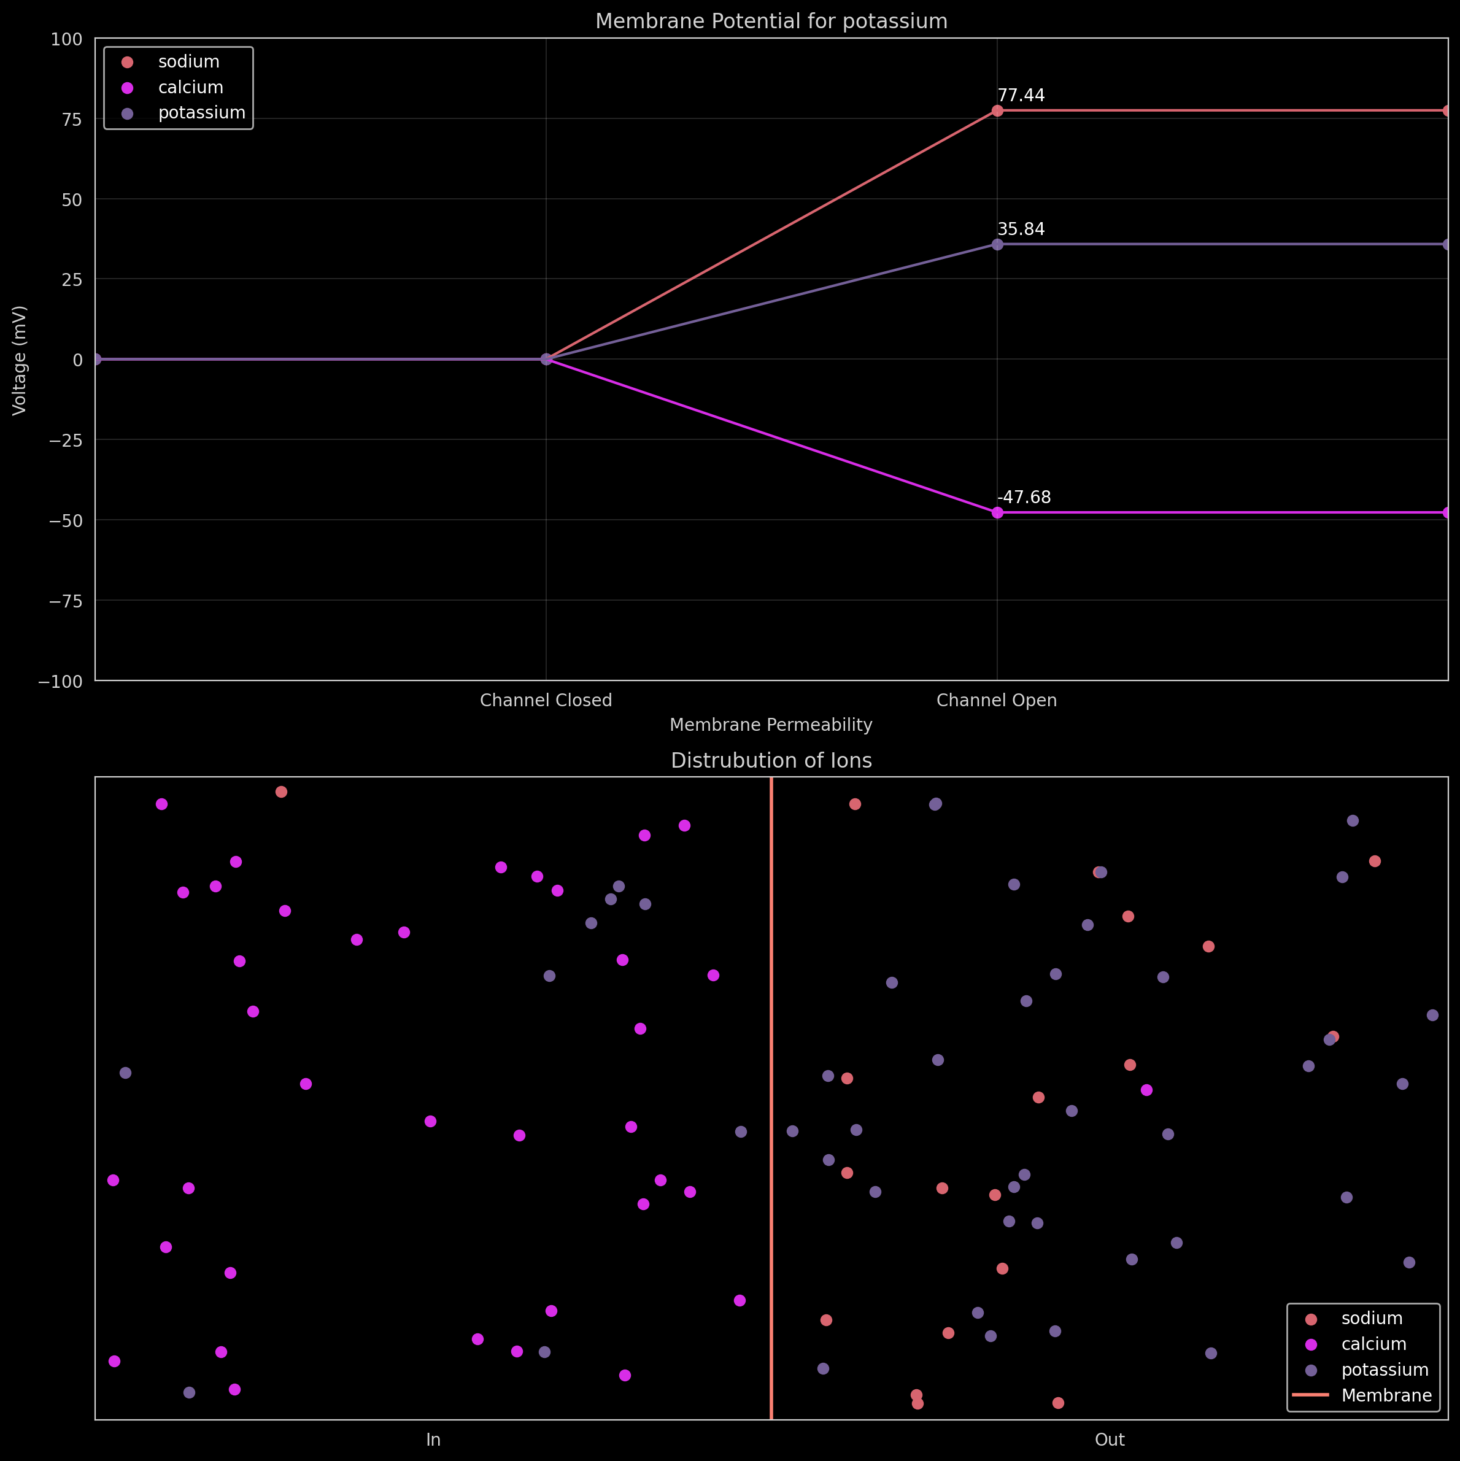
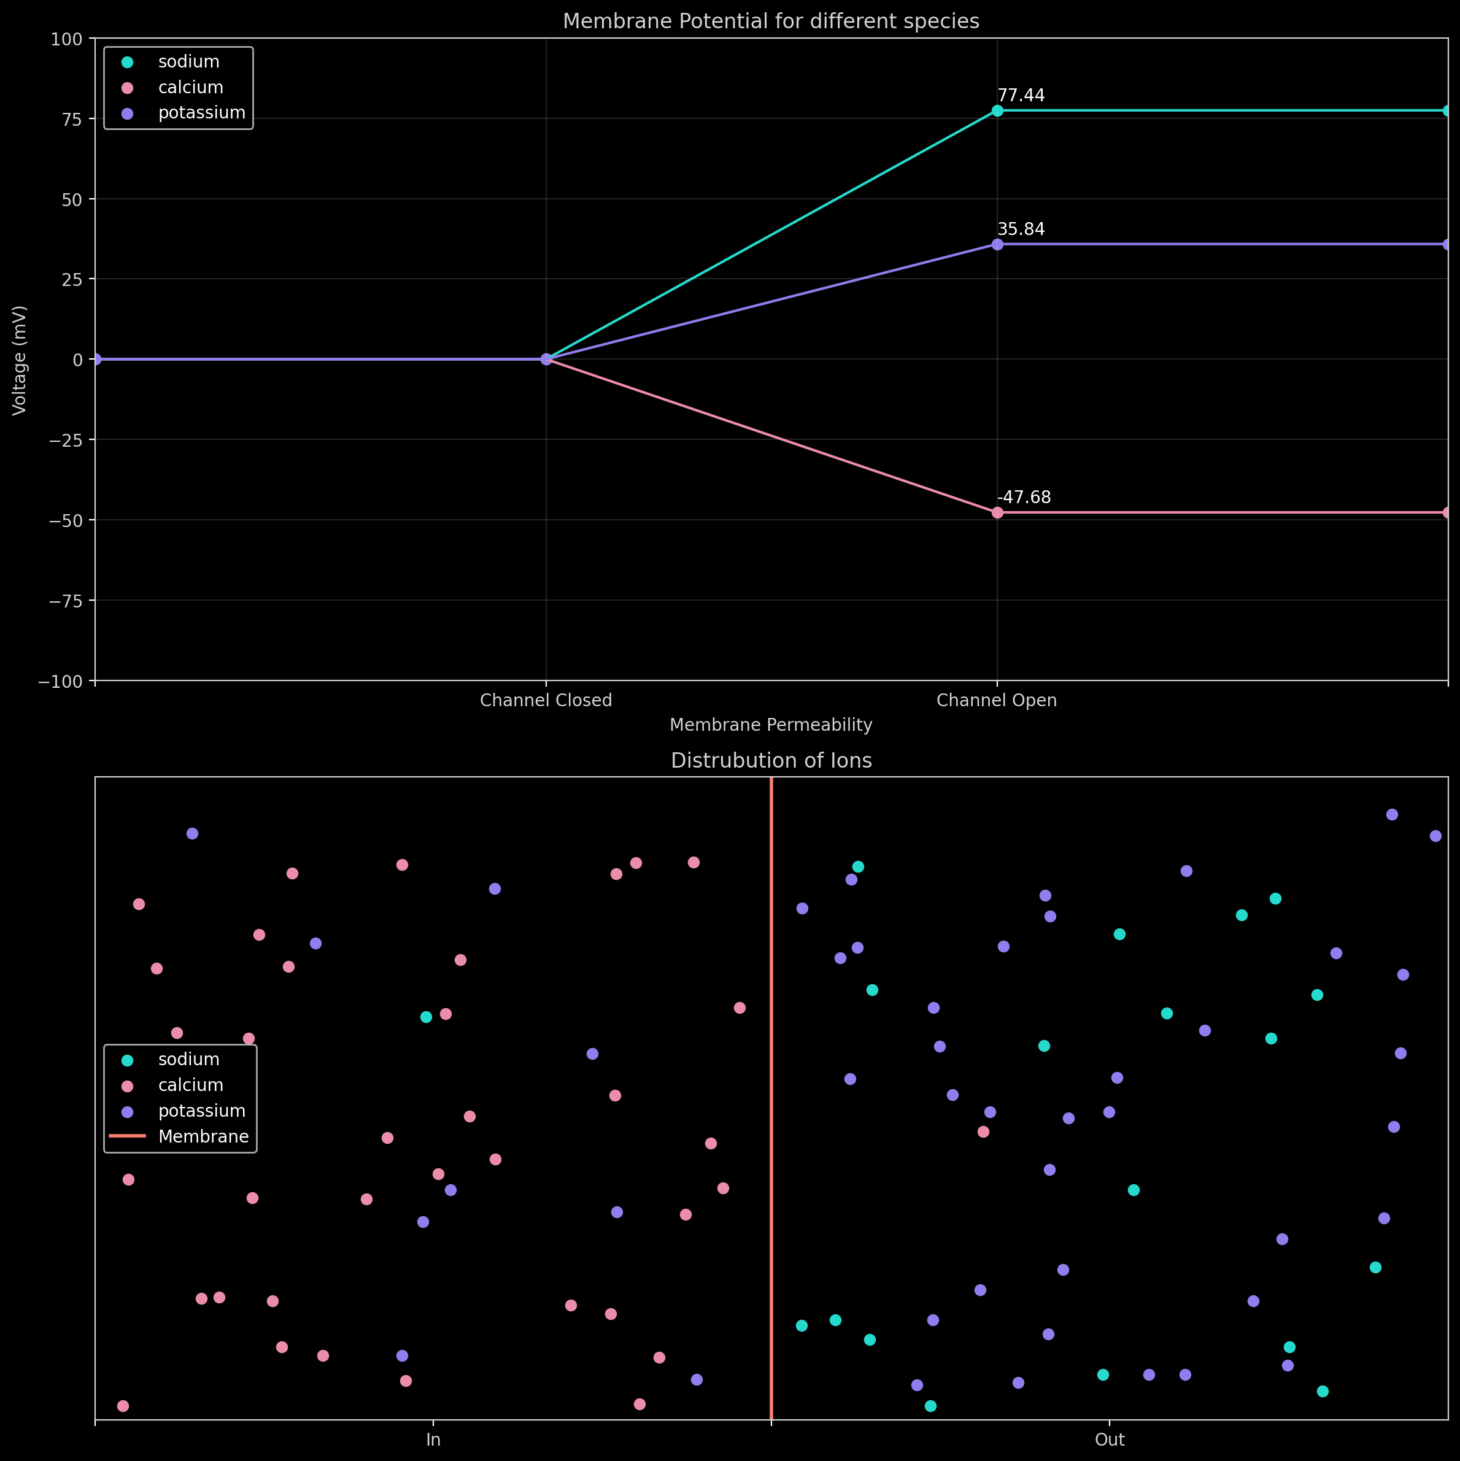
Added a Setup Guide

diff --git a/nernst_app.py b/nernst_app.py
@@ -63,7 +63,6 @@ class Nernst():
         plt.xticks(xlabs,x_tick_names,color='lightgray')
         plt.yticks(color='lightgray')
         plt.text(2, volts+3, str(round(volts, 2)))
-        plt.title(f'Membrane Potential for {name}',color='lightgray')
         plt.xlabel("Membrane Permeability",color='lightgray')
         plt.ylabel("Voltage (mV)",color='lightgray')
         plt.grid(color="white", linestyle='-', linewidth=0.1)
@@ -92,6 +91,14 @@ class Nernst():
         plt.title('Distrubution of Ions',color='lightgray')
         plt.tick_params(left=False,bottom=True,labelleft=False,labelbottom=True)
         plt.legend(facecolor='black',edgecolor='lightgray')
+
+    def entropy(self,mol_dict):
+        '''
+        This function takes 1 input, that is the molarity dictionary. Using this
+        it finds the entropy change before and after the ion channels push ions across
+        the membrane.
+        '''
+        pass
         
     def setup(self,mol_dict,total_particles=100):
         '''
@@ -165,6 +172,7 @@ if __name__ == '__main__':
         outside = molarity_dict[key][2]
         potential = Nernst.find_potential(temp,z,inside,outside)
         Nernst.plot_potential(potential*1000,key,unique_colors[i])
+    plt.title(f'Membrane Potential for different species',color='lightgray')
 
     plt.subplot(212)
     plt.style.use('dark_background')
@@ -180,6 +188,7 @@ if __name__ == '__main__':
         
     
 ##################################################### Webpage code
+    st.title('Nernst  Potential App')
     st.write('Example Image')
     st.image('Example.png')
     st.write("Here's the interactive part")

diff --git a/README.md b/README.md
@@ -1,3 +1,5 @@
 # PHY215_SS23_HO
 This is my PHY215 SS23 honors option repository.
 This will be the location of the final project and also where I will do any prototyping and testing.
+
+# For anyone who wants to run this project, please consult SETUP.txt
